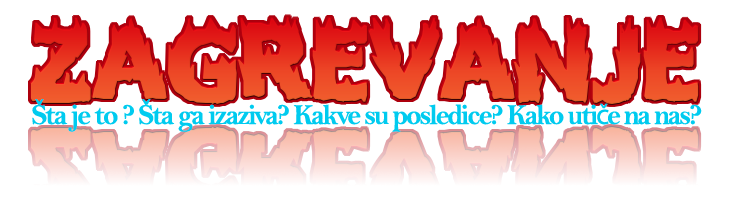
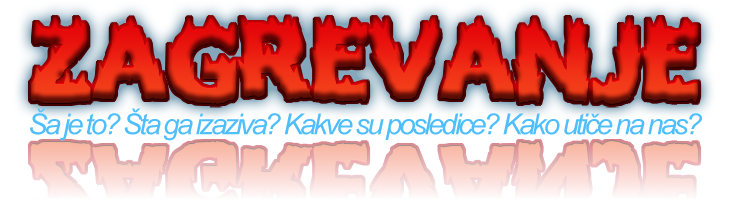
Login skriin

diff --git a/Info/Info.html b/Info/Info.html
@@ -62,19 +62,19 @@ img {max-width:100%;
     text-shadow:
     0 0 6px rgba(202,228,225,0.92),
     0 0 30px rgba(202,228,225,0.34),
-    0 0 12px rgba(51, 192, 248, 0.52),
-    0 0 21px rgba(30, 182, 242, 0.92),
-    0 0 34px rgba(30, 175, 242, 0.78),
-    0 0 38px rgba(30, 175, 242, 0.92);
+    0 0 12px rgba(12, 136, 185, 0.52),
+    0 0 21px rgba(12, 136, 185, 0.65),
+    0 0 34px rgba(10, 110, 150, 0.78),
+    0 0 38px rgba(10, 96, 129, 0.92);
   }
   to {
     text-shadow:
     0 0 6px rgba(202,228,225,0.98),
     0 0 30px rgba(202,228,225,0.42),
-    0 0 12px rgba(30, 193, 242, 0.58),
-    0 0 22px rgba(30, 175, 242, 0.84),
-    0 0 38px rgba(24, 153, 212, 0.88),
-    0 0 40px rgb(19, 147, 221);
+    0 0 12px rgba(18, 172, 233, 0.58),
+    0 0 22px rgba(12, 136, 185, 0.84),
+    0 0 38px rgba(12, 136, 185, 0.88),
+    0 0 40px rgb(10, 118, 161);
   }
 }
 
@@ -205,7 +205,7 @@ li::before {content: "•"; color: red;
     opacity: 1;
   }
 }
-h1 {color:#ef1200;font-size:1.5vw;text-align:center;padding-top:5%;animation: glow 1s ease-in-out infinite alternate;} 
+h1 {color: rgba(239, 18, 0, 1);font-size:1.5vw;text-align:center;padding-top:5%;text-shadow: 0px 0px 3px rgba(6, 44, 65, 1),0px 0px 20px rgba(6, 44, 65, 1)} /* animation: glow 1s ease-in-out infinite alternate; */
 p {font-size:0.90vw;text-align:justify;padding-top:2%;padding-left:2%;padding-right:2%;text-shadow: 0 0 3px rgb(142, 216, 250);}
 </style>
 
@@ -228,7 +228,7 @@ p {font-size:0.90vw;text-align:justify;padding-top:2%;padding-left:2%;padding-ri
 I dok su novi savezni i državni standardi korak u pravom smjeru, treba učiniti mnogo više. Izrazite svoju podršku klimatskim i klimatskim pripremama prilagođenim klimatskim promenama i recite svojim predstavnicima da prelazak sa prljavih fosilnih goriva na čistu energiju treba da bude glavni prioritet - jer je to od vitalnog značaja za izgradnju zdravih, sigurnijih zajednica.
 </p></div></td> </tr>
 <tr>       </tr>
-<tr> <td class="roll-in-left"><a href="Info.html"><img id="boxshadow" src="repeatBtn.png" style="height:20%;width:30%;margin:auto;"/></a></td>       <td class="slide-in-blurred-bottom" rowspan='3'><div id="rcorner"><p>Posljednjih godina Kina je preuzela vodeću ulogu u globalnom zagrijavanju ,zagađujući i stvarajući oko 28 posto svih emisija CO2. Sjedinjene Države dolaze na drugo mesto. Uprkos tome da čine samo 4 procenta svetske populacije, proizvode ogromnih 16 procenata svih svetskih emisija CO2 - koliko su Evropska unija i Indija (treće i četvrto mesto) zajedno. A Amerika je i dalje broj jedan, daleko po kumulativnim emisijama u poslednjih 150 godina. Odgovornost zemalja je važna za sve nas.</p><img src="dim.png" style="margin:auto;height:40%;" /></div></td> <td class="roll-in-right"><a href="../login/slajd.html"><img id="boxshadow" src="forwardBtn.png" style="height:20%;width:30%;margin:auto;"/></a></td></tr>
+<tr> <td class="roll-in-left"><a href="Info.html"><img id="boxshadow" src="repeatBtn.png" style="height:20%;width:30%;margin:auto;"/></a></td>       <td class="slide-in-blurred-bottom" rowspan='3'><div id="rcorner"><p>Posljednjih godina Kina je preuzela vodeću ulogu u globalnom zagrijavanju ,zagađujući i stvarajući oko 28 posto svih emisija CO2. Sjedinjene Države dolaze na drugo mesto. Uprkos tome da čine samo 4 procenta svetske populacije, proizvode ogromnih 16 procenata svih svetskih emisija CO2 - koliko su Evropska unija i Indija (treće i četvrto mesto) zajedno. A Amerika je i dalje broj jedan, daleko po kumulativnim emisijama u poslednjih 150 godina. Odgovornost zemalja je važna za sve nas.</p><img src="dim.png" style="margin:auto;height:40%;" /></div></td> <td class="roll-in-right"><a href="../login/login.html"><img id="boxshadow" src="forwardBtn.png" style="height:20%;width:30%;margin:auto;"/></a></td></tr>
 <tr> <td class="slide-in-fwd-center30" rowspan='2' colspan='2'><div id="rcorner"><h1>Kako je globalno zagrevanje povezano sa ekstremnim vremenom?</h1><p>Naučnici se slažu da rastuće temperature Zemlje podstiču duže i toplije toplotne talase, češće suše, jače kiše i jače uragane. Zemljine okeanske temperature takođe postaju toplije - što znači da tropske oluje mogu pokupiti više energije. Tako bi globalno zagrevanje moglo pretvoriti, recimo, oluju kategorije 3 u opasniju oluju kategorije 4. U stvari, naučnici su otkrili da se učestalost uragana u severnom Atlantiku povećavala od početka 1980-ih, kao i broj oluja koje dostižu kategorije 4 i 5. Uticaj globalnog zagrevanja oseti se širom sveta. Ekstremni toplotni talasi poslednjih godina prouzrokovali su desetine hiljada smrti širom sveta. A u alarmantnom znaku događaja koji slede, Antarktika gubi oko 134 milijarde metričkih tona leda godišnje od 2002. Ova stopa bi se mogla ubrzati ako nastavimo sagorevanje fosilnih goriva sadašnjim tempom, kažu neki stručnjaci, uzrokujući da nivo mora padne na porasti nekoliko metara tokom narednih 50 do 150 godina.</p></div></td>  
   <td class="slide-in-fwd-center10" rowspan='2'><div id="rcorner"><h1>Šta izaziva globalno zagrevanje?</h1><p>Globalno zagrevanje nastaje kada se ugljen-dioksid (CO2) i drugi zagađivači vazduha i staklenički gasovi sakupljaju u atmosferi i apsorbuju sunčevu svetlost i solarnu radijaciju koji su odskakali od zemljine površine. Obično bi ovo zračenje pobeglo u svemir - ali ovi zagađivači, koji u atmosferi mogu da traju godinama i vekovima, zarobe toplotu i prouzrokuju topliju planetu. To je ono što se naziva efekat staklene bašte.</p></div></td></tr>
 <tr>                       </tr>

diff --git a/login/login.html b/login/login.html
@@ -1,11 +1,102 @@
-<?php 
-
-
-?>
 <html>
 <head>
 <title>Login</title>
+<style> 
+body {width:100%;
+	  height:100%;
+	  background-image:url('896996.jpg');
+	  background-size: cover;
+	  background-position: center; /* Center the image */
+	  background-repeat: no-repeat; /* Do not repeat the image */
+		font-family: 'Helvetica', 'Arial', sans-serif;	}
+table {empty-cells:show;
+	   width:100%;
+	   height:100%;
+	   b
+		
+	   }
+tr {width:100%;
+	height:20%;
+}
+td {
+	width:31%;}
+img {max-width:100%;
+	 height:auto;
+	 display:block;
+	}
+* {box-sizing: border-box}
+.container {
+  padding: 2%;
+  background-color:rgb(254, 253, 251);
+	border-radius: 20px;
+}
+input[type=text], input[type=password] {
+  width: 100%;
+  padding: 3%;
+  margin: 5px 0 22px 0;
+  display: inline-block;
+  border: none;
+  background: #eaeaea;
+}
+input[type=text]:focus, input[type=password]:focus {
+  background-color: #d8d8d8;
+  outline: none;
+}
+hr {
+  border: 1px solid #f1f1f1;
+  margin-bottom: 1.5em;
+}
+.registerbtn {
+  background-color: #2597d8;
+  color: white;
+  padding: 1em 0.8em;
+  margin: 0.5em 0;
+  border: none;
+  cursor: pointer;
+  width: 100%;
+  opacity: 0.9;
+  border-radius: 20px;
+}
+.registerbtn:hover {
+  opacity:1;
+}
+
+/* Add a blue text color to links */
+a {
+  color: dodgerblue;
+}
+	</style>
 </head>
 <body>
+<table border='0'>
+<tr><td></td>      <td></td>        <td> </td></tr>
+<tr><td></td> <td rowspan='3'>
+	<form action="action_page.php">
+	 <div class="container">
+    <h1>Registracija</h1>
+    <p>Molimo vas, registrujte se da bi nastavili dalje.</p>
+    <hr>
+
+    <label for="username"><b>Korisničko ime</b></label>
+    <input type="text" placeholder="Unesi željeno ime" name="username" required>
+
+    <label for="psw"><b>Šifra</b></label>
+    <input type="password" placeholder="Unesi šifru" name="psw" required>
+
+    <label for="psw-repeat"><b>Ponovi šifru</b></label>
+    <input type="password" placeholder="Ponovi šifru" name="psw-repeat" required>
+    <hr>
+
+    <p>Registrujući se, prihvatate naše <a href="#">Uslove & Pravila</a>.</p>
+    <button type="submit" class="registerbtn">Registruj se</button>
+  </div>
+  </form>
+</td> <td> </td></tr>
+<tr><td></td>                       <td> </td></tr>
+<tr><td></td>                       <td> </td></tr>
+<tr><td></td>      <td></td>        <td> </td></tr>
+</table>
+
 </body>
+
 </html>
